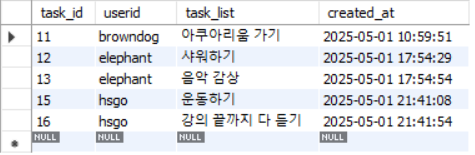
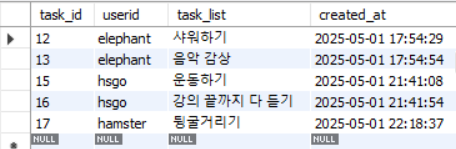
finish

diff --git a/README.md b/README.md
@@ -10,6 +10,10 @@
 - **테스트 결과:**
   ![로그인 API 테스트 결과](screenshot/login.png)
 
+### 📸 `users` 테이블에 사용자 추가
+
+![DB](screenshot/DB_users.png)
+
 ## 📸 나의 할 일 API
 
 ### (1) 나의 할 일 페이지 & 콘솔창에 토큰
@@ -36,17 +40,9 @@
 
 ![나의 할 일 API 테스트 결과](screenshot/todo_6.png)
 
----
-
-## 📸 DB 결과
-
-### 1. `users` 테이블에 사용자 추가
-
-![DB 결과](screenshot/DB_users.png)
-
 ### 2. `todos` 테이블에 할 일 추가
 
-![DB 결과](screenshot/DB_todos.png)
+![DB](screenshot/DB_todos.png)
 
 ---
 
